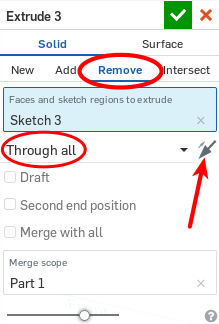
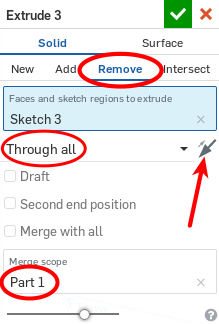
Fix typo in onshape sharing Add sharing to 3dprinter account Add option for no middle-mouse button Fix numbering bug Add deselect in name tutorial for fuselage

diff --git a/jekyll/cad-tutorial/teams-middle-body1.html b/jekyll/cad-tutorial/teams-middle-body1.html
@@ -63,7 +63,7 @@ title: Fuselage | Onshape CAD Tutorial | Stage One Education
 
                     <!-- <h2>Fuselage</h2>
                     <hr class="col-xs-offset-0 col-sm-offset-0 col-md-offset-0 long" /> -->
-                    <h3 class="section-heading">1. Create a new part studio</h3>
+                    <h3 class="section-heading">{% include step_counter.html %} Create a new part studio</h3>
                     <ul>
                         <li>Click the "<strong>+</strong>" button</li>
                         <ul><li><img src="img/tutorial/plus_button.png" /></li></ul>
@@ -77,7 +77,7 @@ title: Fuselage | Onshape CAD Tutorial | Stage One Education
     </section>
     
     {% include section.html param="top" %}
-                    <h3 class="section-heading">2. Rename your part studio</h3>
+                    <h3 class="section-heading">{% include step_counter.html %} Rename your part studio</h3>
                     {% include tutorial-video.html path="videos/middle-body/rename_middle_body" %}
                     <ul>
                         <li>Right-click on the <strong>Part Studio 1</strong> tab on the bottom left <img src="img/tutorial/part_studio1.png" /></li>

diff --git a/jekyll/_includes/teams-share-document.html b/jekyll/_includes/teams-share-document.html
@@ -102,7 +102,8 @@
                                 {% include tutorial-video.html path="videos/getting-started/share_document" %}
                                 <ul>
                                     <li>Press the <strong>Share</strong> button <img src="img/tutorial/share.png" /></li>
-                                    <li>Enter your partners' Onshape logging accounts in the box</li>
+                                    <li>Enter <em>3dprinter@stageoneeducation.com</em> in the box</li>
+                                    <li>Enter your partners' Onshape login accounts in the box</li>
                                     <li>Press <strong>Share</strong> <img src="img/tutorial/share.png" /></li>
                                     <li>Press "Close"</li>
                                 </ul>

diff --git a/jekyll/_includes/lower-body2-content.html b/jekyll/_includes/lower-body2-content.html
@@ -187,6 +187,8 @@
                             <li>Double click on <strong>Extrude 3</strong> <img src="img/tutorial/extrude3.png" /></li>
                             <li>Click the "opposite direction" button <img src="img/tutorial/opposite_direction_button.png" /></li>
                             <ul><li><img src="img/tutorial/cylinder_not_empty_helper.png" /></li></ul>
+                            <li>Also check that in the <strong>Merge scope</strong> box, you see "Part 1"</li>
+                            <ul><li>If not, click the Merge scope box and then click the rocket</li></ul>
                         </ul>
                     </ul>
                     {% include tutorial-video.html path="videos/lower-body/extrude_remove" %}

diff --git a/jekyll/_includes/middle-body4-content.html b/jekyll/_includes/middle-body4-content.html
@@ -71,6 +71,7 @@
                 <div class="col-lg-12 text-left">
                     <h3 class="section-heading">{% include step_counter.html %} Dimension your name</h3>
                     <ul>
+                        <li>Press <strong>Esc</strong> to deselect the coincident tool</li>
                         <li>Drag the dashed line around the letters so that the top is below the top of the rocket</li>
                         <li>Select the "Dimension" tool <img src="img/tutorial/dimension_tool.png" /></li>
                         <li>Select the top of the rocket</li>

diff --git a/jekyll/_includes/moving-your-view-in-3d.html b/jekyll/_includes/moving-your-view-in-3d.html
@@ -7,6 +7,7 @@
                     <ul>
                         <li>Turn your view: <strong>right-click + drag</strong></li>
                         <li>Pan/slide: <strong>Middle-button + drag</strong> to pan/slide your view</li>
+                        <ul><li>If you don't have a middle button, you can use Ctrl + right click + drag to pan/slide your view</li></ul>
                         <li>Zoom: <strong>scroll wheel</strong></li>
                     </ul>
                 </div>

diff --git a/jekyll/cad-tutorial/teams-middle-body3.html b/jekyll/cad-tutorial/teams-middle-body3.html
@@ -2,6 +2,6 @@
 layout: rocket-page
 title: Fuselage (page 3) | Onshape CAD Tutorial | Stage One Education
 ---
-    {% assign step_counter = 12 %}
+    {% assign step_counter = 14 %}
     {% include middle-body3-content.html %}
 

diff --git a/jekyll/cad-tutorial/teams-middle-body4.html b/jekyll/cad-tutorial/teams-middle-body4.html
@@ -2,6 +2,6 @@
 layout: rocket-page
 title: Fuselage (page 4) | Onshape CAD Tutorial | Stage One Education
 ---
-    {% assign step_counter = 25 %}
+    {% assign step_counter = 27 %}
     {% include middle-body4-content.html %}
 

diff --git a/jekyll/cad-tutorial/teams-middle-body2.html b/jekyll/cad-tutorial/teams-middle-body2.html
@@ -2,6 +2,6 @@
 layout: rocket-page
 title: Fuselage (page 2) | Onshape CAD Tutorial | Stage One Education
 ---
-    {% assign step_counter = 5 %}
+    {% assign step_counter = 7 %}
     {% include middle-body2-content.html %}
 
